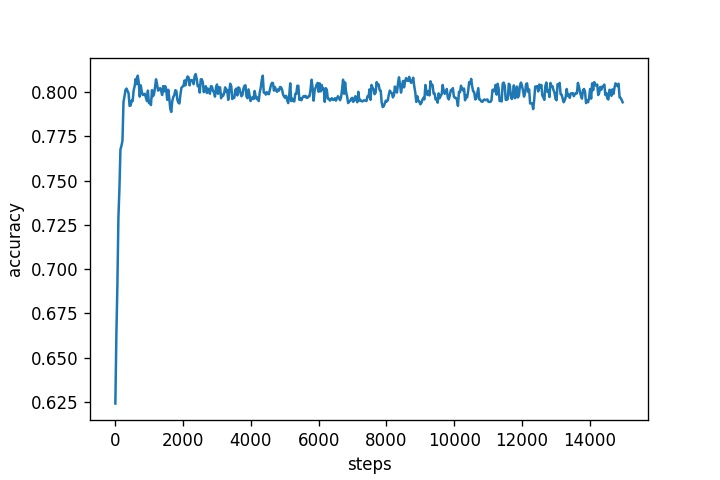
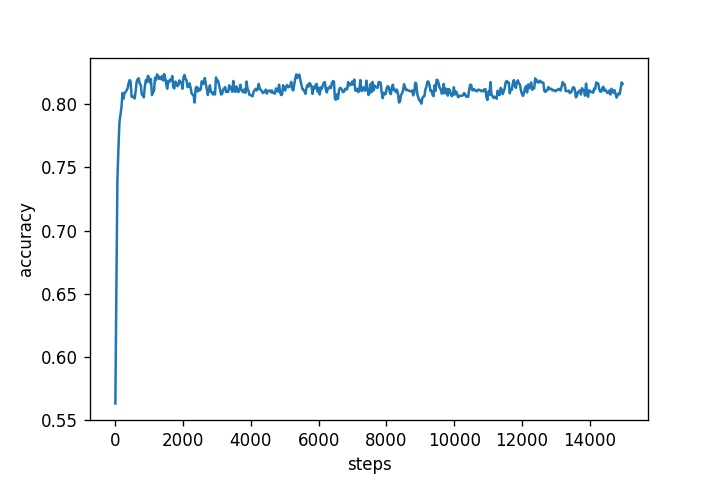
Change Code

diff --git a/main.py b/main.py
@@ -25,20 +25,18 @@ classifier = SVM(dims=6, reg=0.0001)
 classifier.train(data=train, seasons=50, val=validation)
 classifier.plot_all(reg="0.0001")
 
-'''
-classifier = SVM(dims=6, reg=0.001, lr=0.001)
+classifier = SVM(dims=6, reg=0.001)
 classifier.train(data=train, seasons=50, val=validation)
 classifier.plot_all(reg="0.001")
 
-classifier = SVM(dims=6, reg=0.01, lr=0.001)
+classifier = SVM(dims=6, reg=0.01)
 classifier.train(data=train, seasons=50, val=validation)
 classifier.plot_all(reg="0.01")
 
-classifier = SVM(dims=6, reg=0.1, lr=0.001)
+classifier = SVM(dims=6, reg=0.1)
 classifier.train(data=train, seasons=50, val=validation)
 classifier.plot_all(reg="0.1")
 
-classifier = SVM(dims=6, reg=1, lr=0.001)
+classifier = SVM(dims=6, reg=1)
 classifier.train(data=train, seasons=50, val=validation)
 classifier.plot_all(reg="1")
-'''

diff --git a/SVM.py b/SVM.py
@@ -45,10 +45,11 @@ class SVM:
                 if step % 30 == 0:
                     predict_y = self.predict(val_X)
                     acc = np.sum(predict_y == val_y)/val_y.shape[0]
-                    print("seasons: " + str(season) + " step: " + str(step) + " acc: " + str(acc) )
-                    #print(predict_y)
+                    #print("seasons: " + str(season) + " step: " + str(step) + " acc: " + str(acc) )
                     self.acc.append(acc)
                     self.w_magnitude.append(np.linalg.norm(self.W))
+        acc = np.sum(predict_y == val_y)/val_y.shape[0]
+        print("Reg: "+str(self.reg)+" Acc: "+str(acc))
 
     def predict(self, X):
         num_data = X.shape[0]
